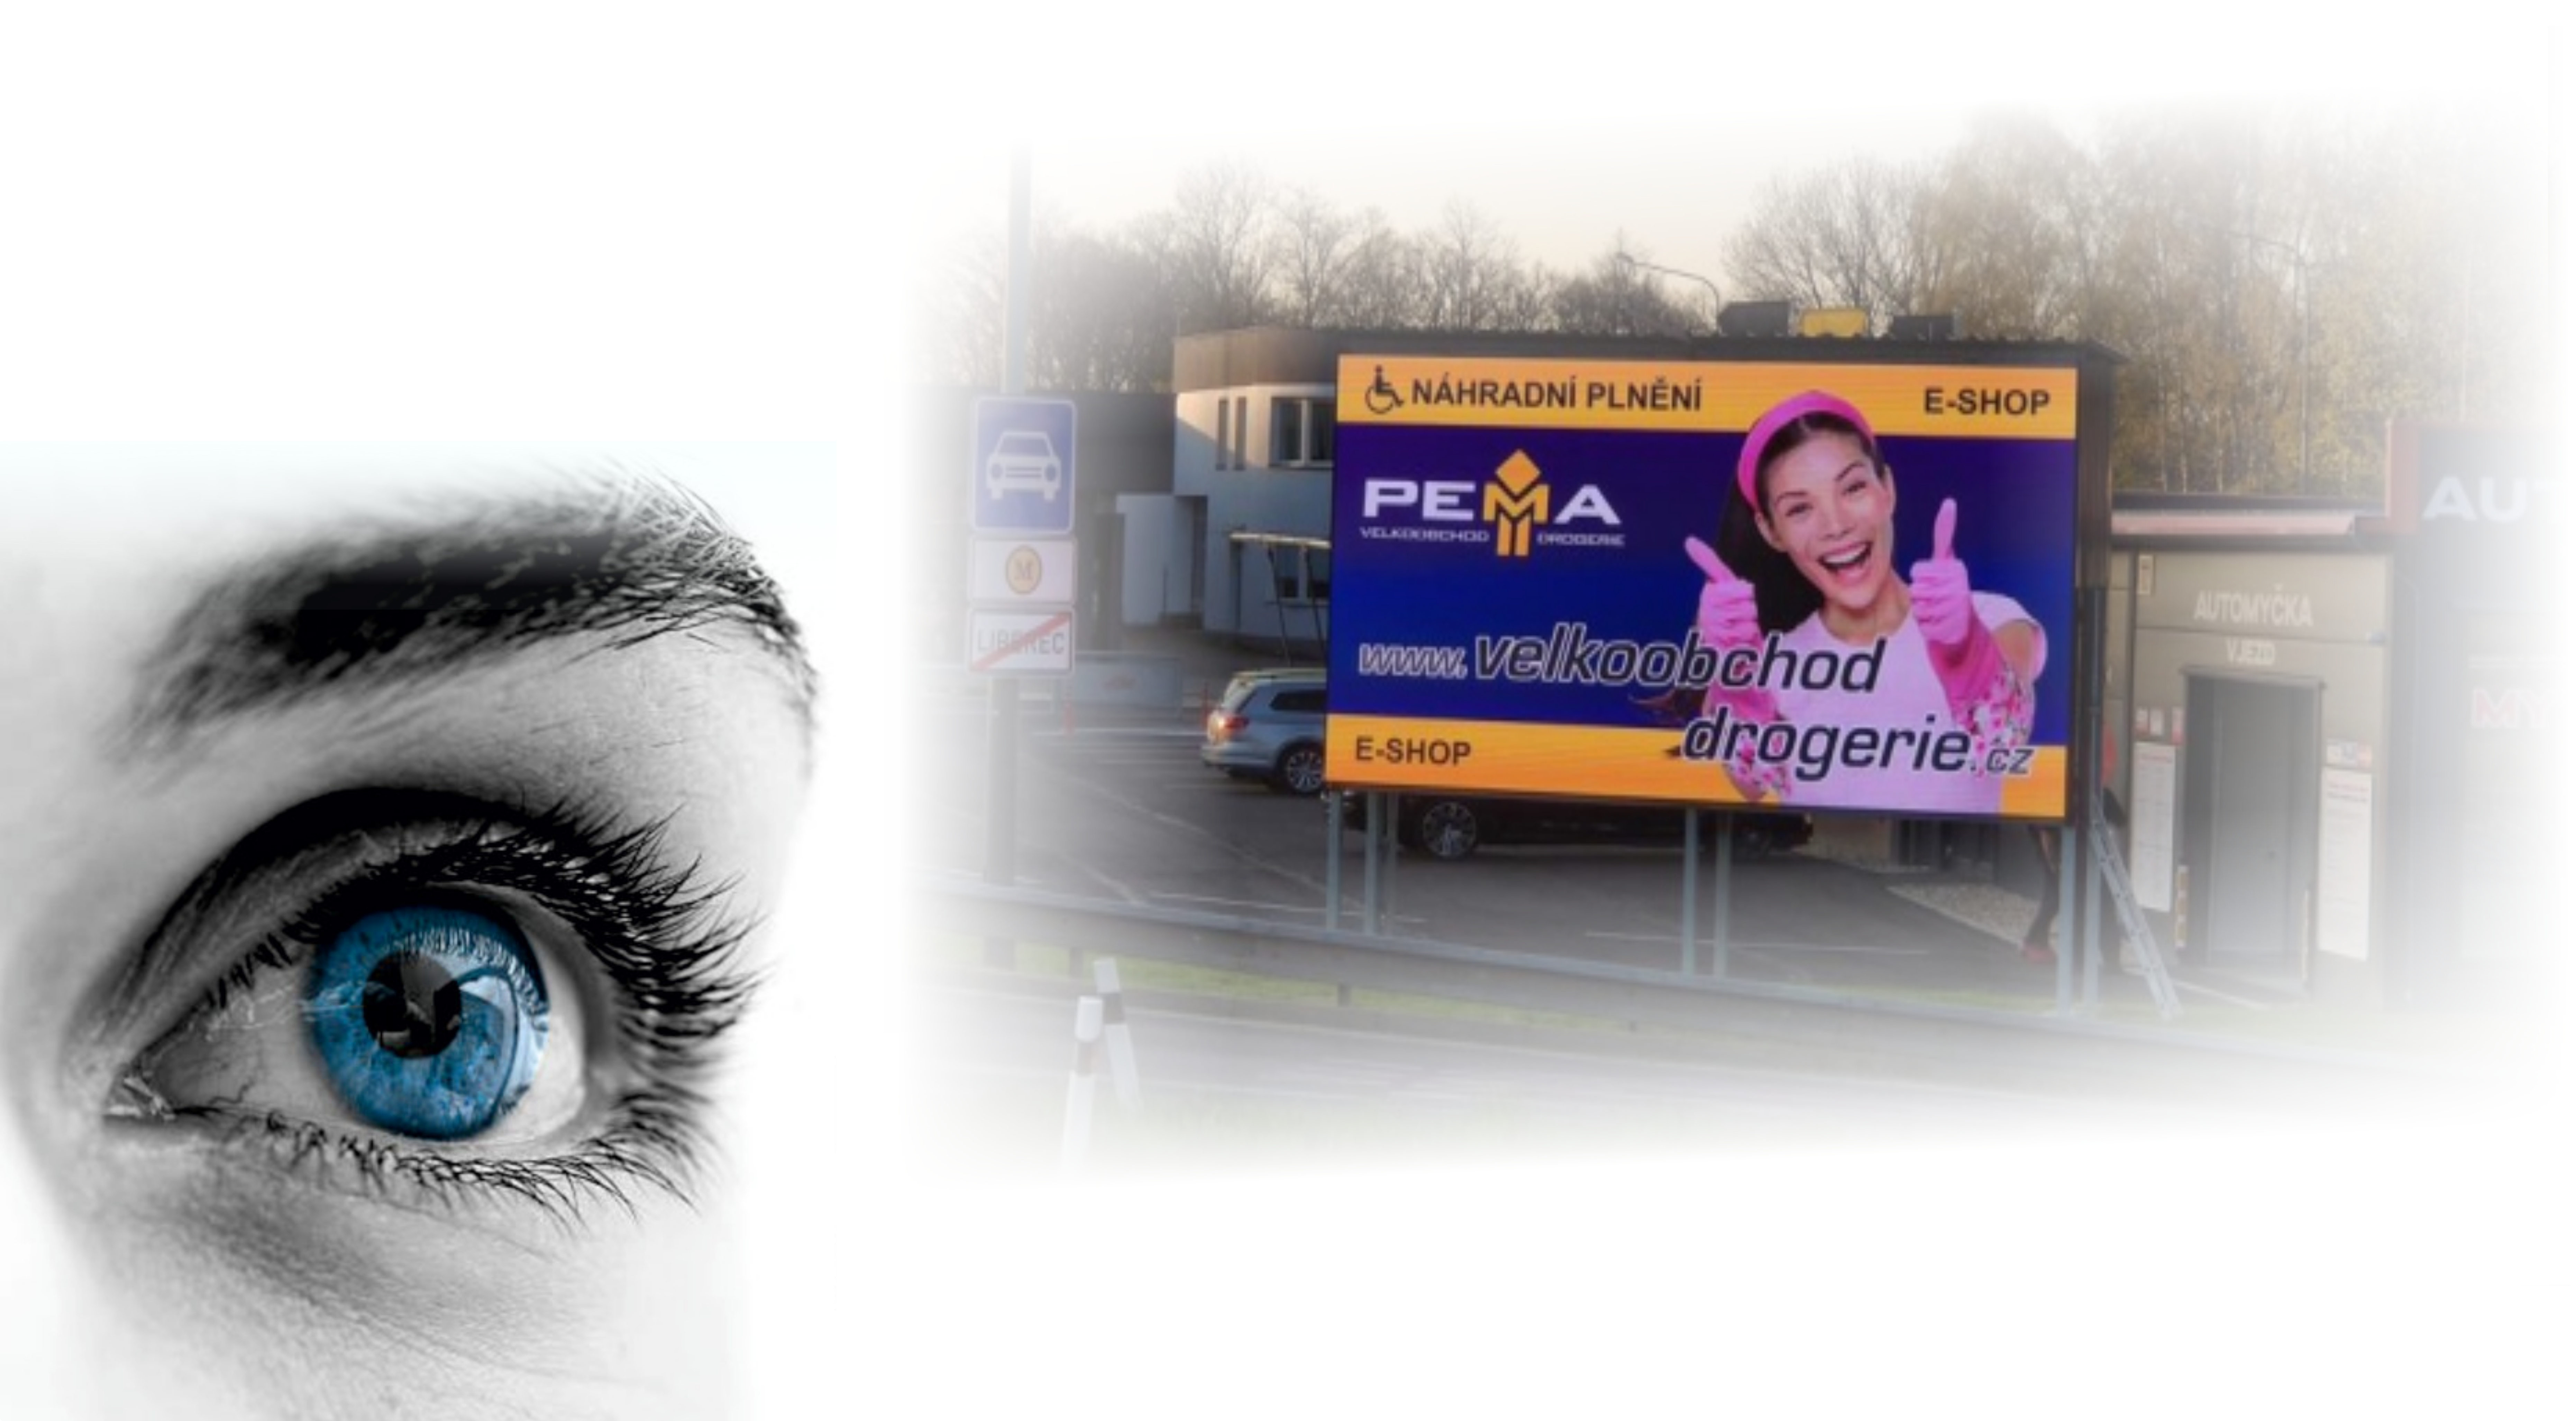
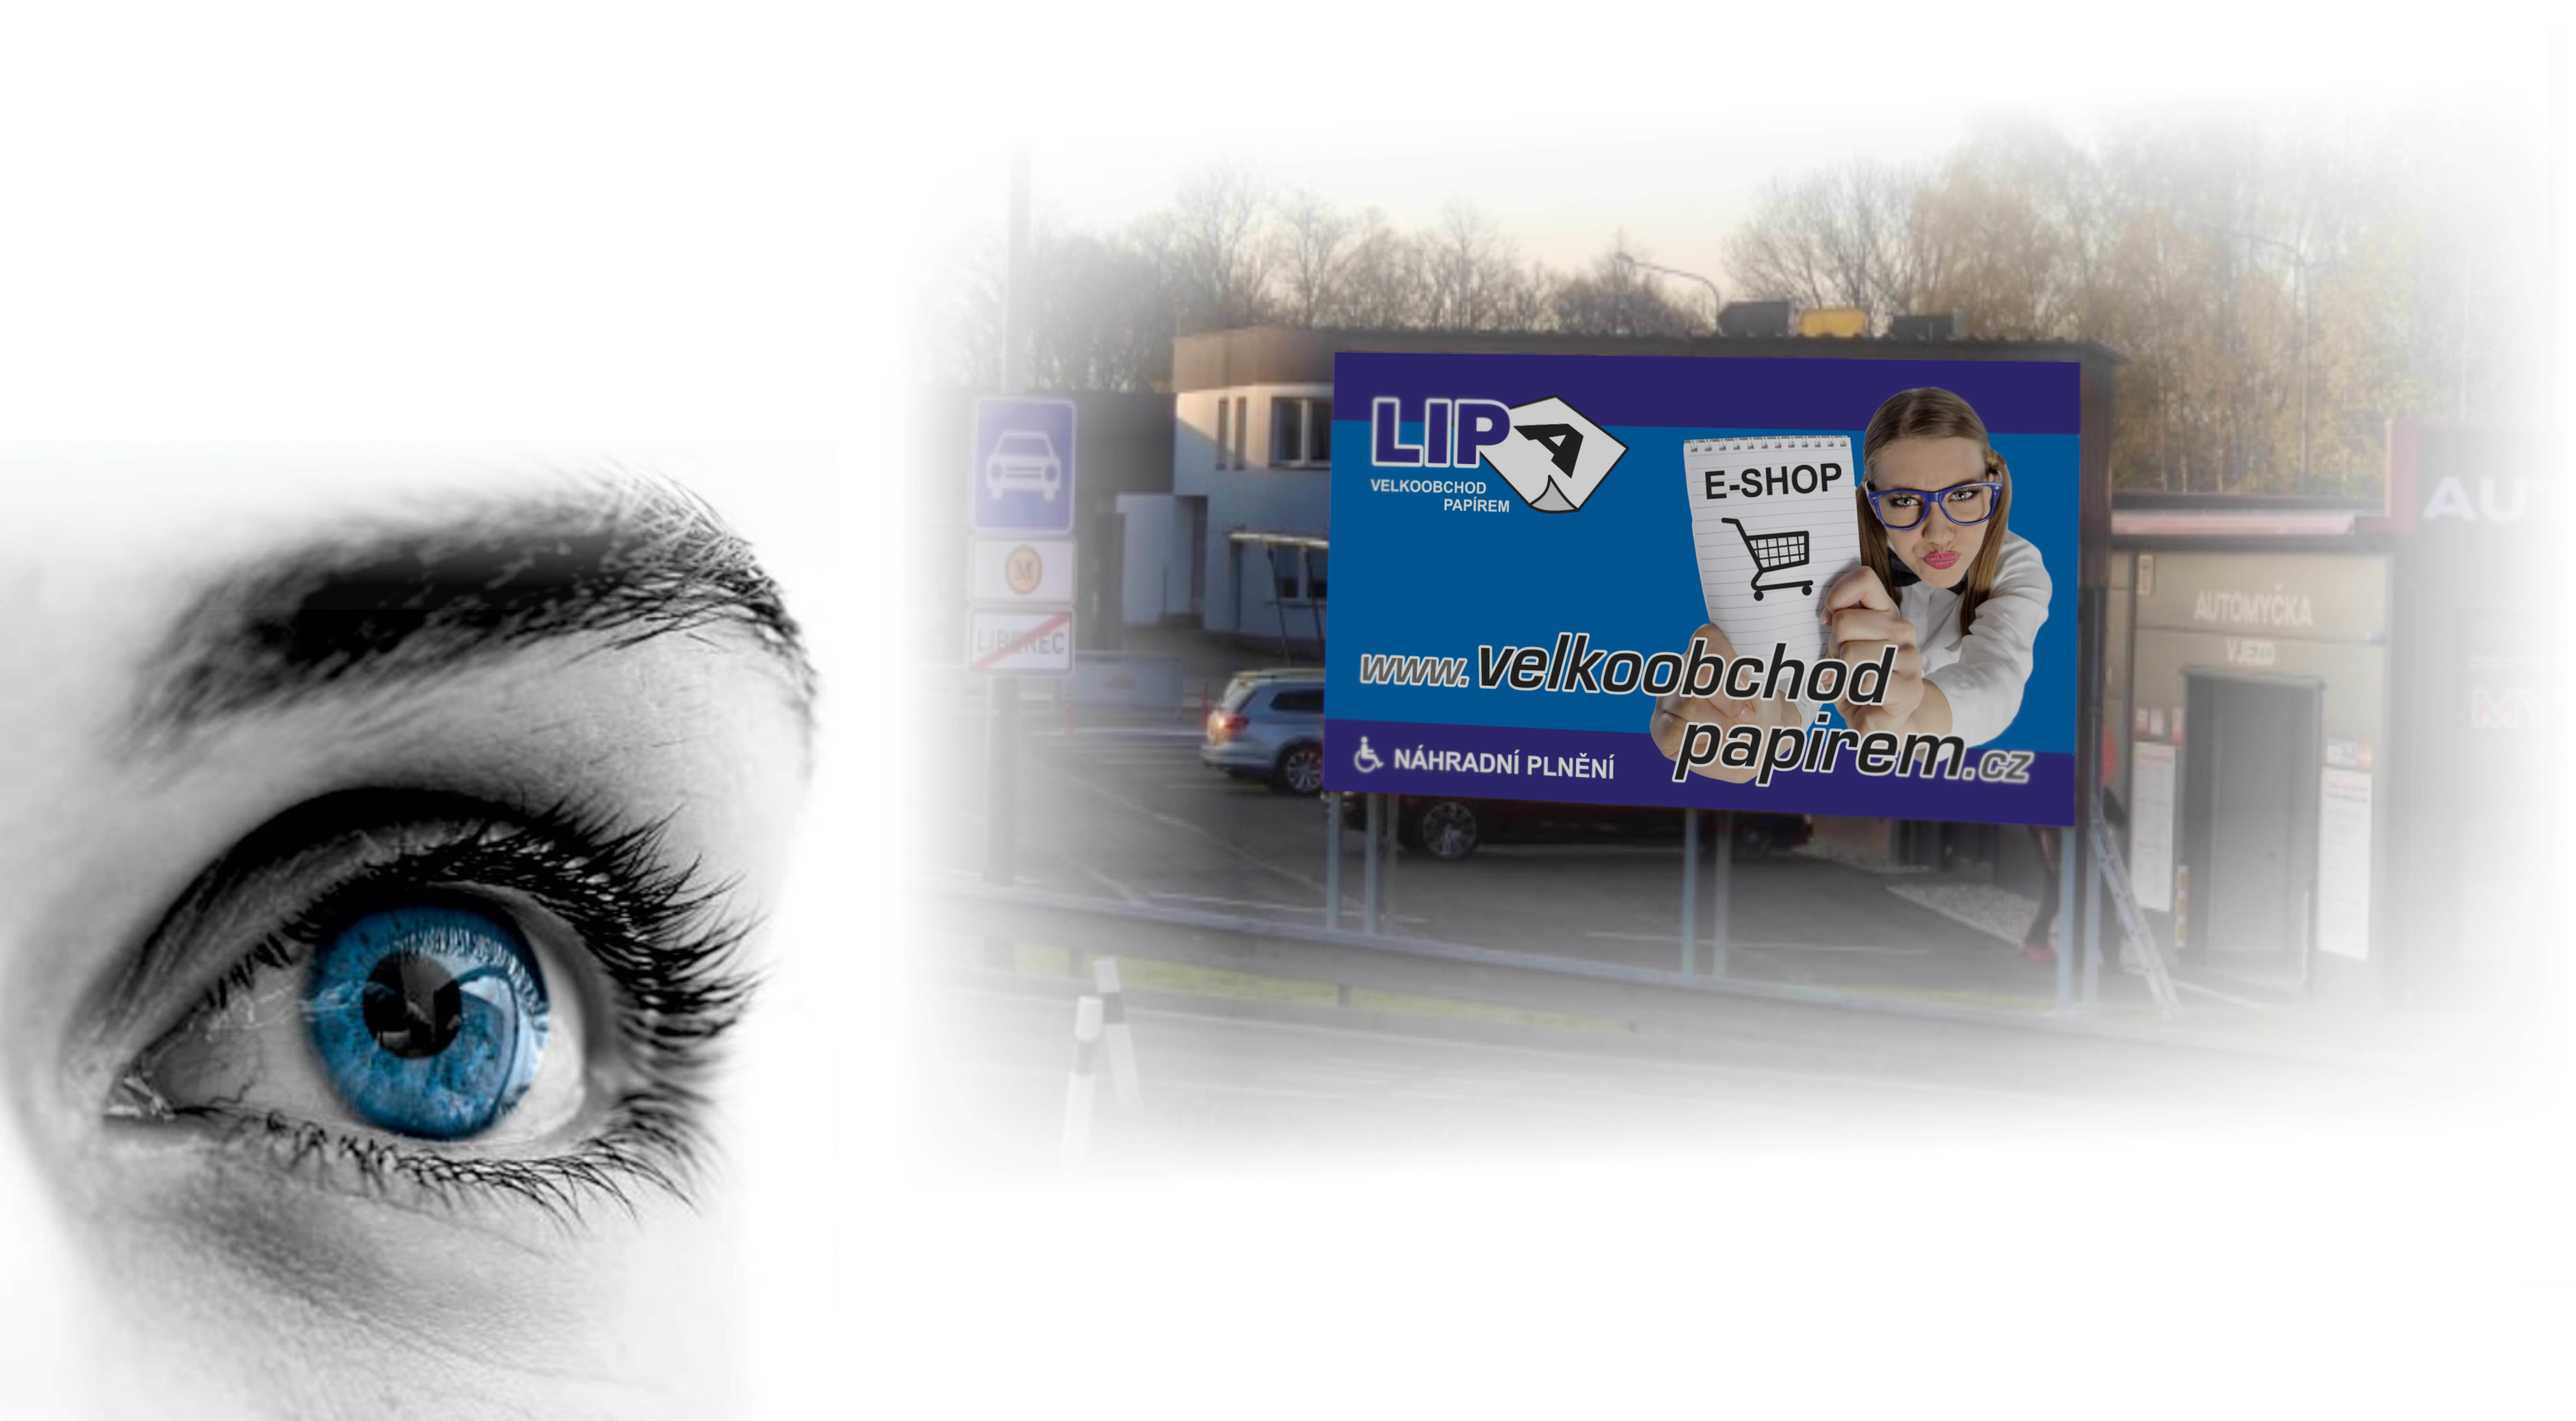
Add Lipa to header, map directions fix, footer

Changed region(s): [[0.4985, 0.2491, 0.8101, 0.5917]]

diff --git a/main.js b/main.js
@@ -9,6 +9,23 @@ function showAndHideNavsByScroll() {
     }
 }
 
+function randomIntFromInterval(min, max) {
+    let result = Math.floor(Math.random() * (max - min + 1) + min);
+    if (result < min) {
+        result = min;
+    } else if (result > max) {
+        result = max;
+    }
+    return result;
+}
+
+let rand = randomIntFromInterval(0, 1);
+console.log(rand);
+if (rand == 0) {
+    $("header").addClass('lipa');
+    $(".led-img-sm").attr('src', "./layout/led1.jpg");
+}
+
 $(function() {
     $("a").on('click', function(event) {
         if (this.hash !== "") {

diff --git a/main.css b/main.css
@@ -14,6 +14,10 @@ header {
     background-position: 50% 50%;
 }
 
+header.lipa {
+    background-image: url('./layout/title-page-background1.jpg');
+}
+
 .margin-auto {
     margin: 0 auto;
 }
@@ -113,6 +117,7 @@ header {
 }
 
 #map_container {
+    max-height: 300px;
     height: 60vh;
 }
 
@@ -149,7 +154,7 @@ header {
     background-size: cover;
     background-repeat: no-repeat;
     background-position: 50% 50%;
-    min-height: 320px;
+    min-height: 280px;
     min-width: 250px;
     margin: 0 auto;
 }

diff --git a/index.php b/index.php
@@ -81,7 +81,7 @@ header("Content-Security-Policy: object-src 'none'; script-src 'nonce-$random' '
         </div>
         <div class="d-flex justify-content-middle mt-3">
             <img src="./layout/eye.jpg" alt="EYE" class="w-40 d-none d-sm-block" />
-            <img src="./layout/led.jpg" alt="LED" class="img-w-60" />
+            <img src="./layout/led.jpg" alt="LED" class="img-w-60 led-img-sm" />
         </div>
     </section>
 
@@ -151,19 +151,19 @@ header("Content-Security-Policy: object-src 'none'; script-src 'nonce-$random' '
             <tbody>
                 <tr>
                     <td scope="row">min<span class="d-none d-md-inline">imálně</span> 40x</td>
-                    <td class="text-nowrap">14 400</td>
+                    <td class="text-nowrap">14 400x</td>
                     <td>0,48<span class="d-none d-md-inline"> Kč</span></td>
                     <td class="text-nowrap">6 900<span class="d-none d-md-inline"> Kč</span></td>
                 </tr>
                 <tr>
                     <td scope="row">min<span class="d-none d-md-inline">imálně</span> 20x</td>
-                    <td class="text-nowrap">7 200</td>
+                    <td class="text-nowrap">7 200x</td>
                     <td>0,63<span class="d-none d-md-inline"> Kč</span></td>
                     <td class="text-nowrap">4 500<span class="d-none d-md-inline"> Kč</span></td>
                 </tr>
                 <tr>
                     <td scope="row">min<span class="d-none d-md-inline">imálně</span> 10x</td>
-                    <td class="text-nowrap">3 600</td>
+                    <td class="text-nowrap">3 600x</td>
                     <td>0,81<span class="d-none d-md-inline"> Kč</span></td>
                     <td class="text-nowrap">2 900<span class="d-none d-md-inline"> Kč</span></td>
                 </tr>
@@ -221,10 +221,6 @@ header("Content-Security-Policy: object-src 'none'; script-src 'nonce-$random' '
 
     <footer class="container mt-5">
         <div class="row">
-            <div class="col-12 col-lg-4 mb-2 text-center">
-                <img src="layout/icon-dark.png" height="50" alt="LED Reklama Sněhulák Liberec" loading="lazy"><br />
-                <span class="d-block my-2">&copy; <?php echo date("Y"); ?></span>
-            </div>
             <div class="col-12 col-lg-4 text-center">
                 <h5>Kontakt</h5>
                 <ul class="list-unstyled text-small">
@@ -238,6 +234,10 @@ header("Content-Security-Policy: object-src 'none'; script-src 'nonce-$random' '
                 <ul class="list-unstyled text-small">
                     <li class="text-muted">07:00 - 19:00</li>
                 </ul>
+            </div>
+            <div class="col-12 col-lg-4 mb-2 text-center">
+                <img src="layout/icon-dark.png" height="50" alt="LED Reklama Sněhulák Liberec" loading="lazy"><br />
+                <span class="d-block my-2">&copy; <?php echo date("Y"); ?></span>
             </div>
         </div>
     </footer>
